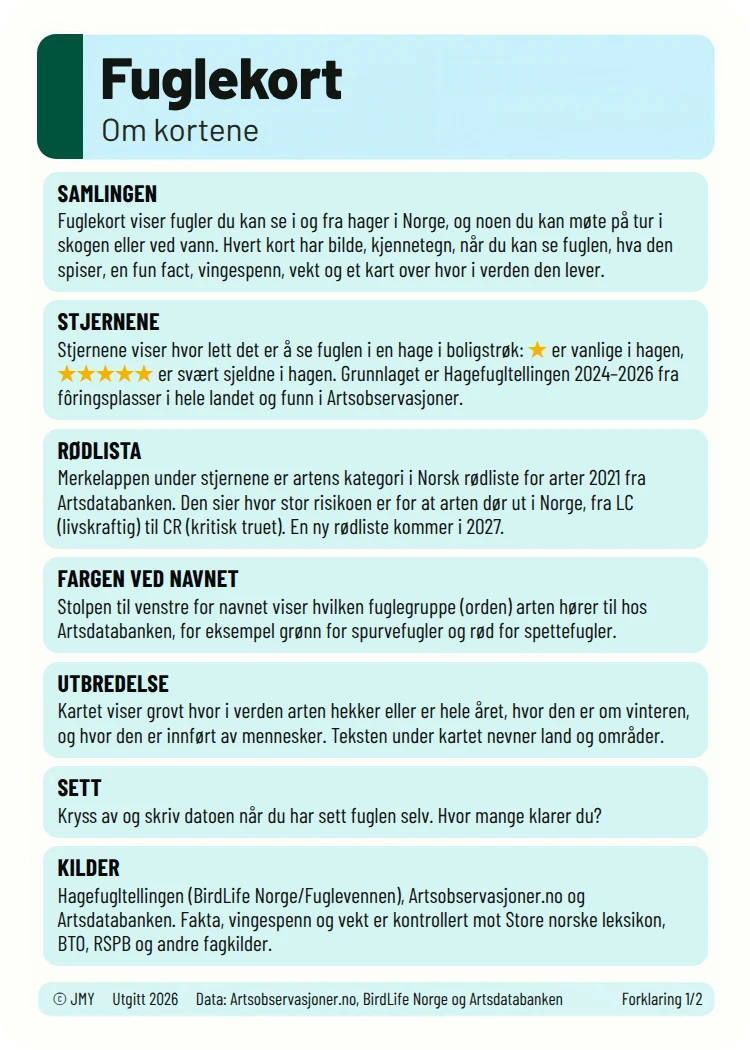
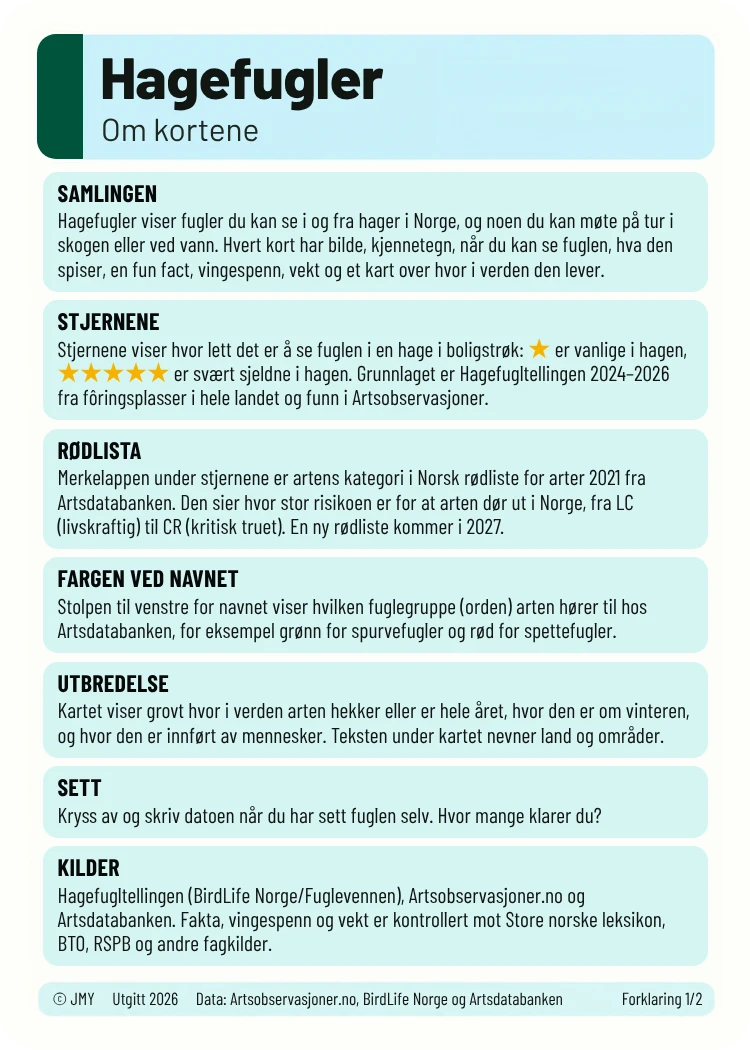
Appen: «Om kortene» med tittelen Hagefugler
cards/000a.webp er bygget på nytt fra Fuglekort-builder etter at forklaringskortet
fikk tittelen «Hagefugler».

Claude-Session: https://claude.ai/code/session_01XFqPWwvjiBU6bcRpZ7DErQ

diff --git a/README.md b/README.md
@@ -8,7 +8,7 @@ Kopiert fra repoet fuglekort_nettside (fuglekort.no) 13. november 2026, med navn
 |---|---|
 | `/` (`index.html`, `style.css`, `app.js`, `hagefugler-box.js`, `assets/`) | Hjemmesiden: 3D-esken, fem smakebitkort, kilder, appen, personvern og bestillingslisten (dialogen «Sett deg på listen»). `embed.html` viser bare esken (til iframe). |
 | `assets/google-play-nb-NO.svg` | Googles norske merke «Last ned på Google Play» med lenke til appen i Play-butikken (https://play.google.com/store/apps/details?id=no.fuglekort.hagefugler). Fra Googles merkeside (play.google.com/intl/en_us/badges), som SVG fra [pioug/google-play-badges](https://github.com/pioug/google-play-badges) (synket februar 2026). Brukes uendret; Google krever linjen «Google Play og Google Play-logoen er varemerker for Google LLC.» under. Ved siden av står «For iPhone». Begge vises for alle, så alle ser at appen finnes for begge. På telefoner viser «For iPhone» veiledningen for Hjem-skjermen på iPhone; PC og nettbrett går rett til appen. |
-| `/app/` | Play-versjonen av Hagefugler (Google Play, TWA med pakkenavnet `no.fuglekort.hagefugler`). **Lages av `build.py --play` i repoet fuglekort.** Kopien her har én endring: de to lenkene til personvernerklæringen peker til https://hagefugler.no/personvern/ (ikke fuglekort.no). Bygger du på nytt hit, må de byttes igjen. |
+| `/app/` | Play-versjonen av Hagefugler (Google Play, TWA med pakkenavnet `no.fuglekort.hagefugler`). **Lages av `build.py --play` i repoet fuglekort.** Kopien her har to endringer: de to lenkene til personvernerklæringen peker til https://hagefugler.no/personvern/ (ikke fuglekort.no), og kortet «Om kortene» (`cards/000a.webp`) er bygget på nytt fra Fuglekort-builder med tittelen «Hagefugler». Bygger du på nytt hit, må lenkene byttes igjen; 000a kommer med av seg selv når Fuglekort-builder er bygget først. |
 | `/personvern/` | Personvernerklæringen for appen og bestillingslisten. Lenket fra appen og fra Play-oppføringen. `#slett` er siden Google krever for sletting, `#bestillingslisten` er delen om lista. |
 | `/vilkar/` | Vilkårene for bestillingslisten: pris, frakt, ingen garanti for trykk, Vipps, angrerett og selgeropplysninger. |
 | `google-apps-script/bekreftelse.gs` | Skriptet som sender bekreftelsen på e-post fra post.fuglekort@gmail.com. Ligger som Google Apps Script i den kontoen; denne kopien har ikke den hemmelige koden. |
